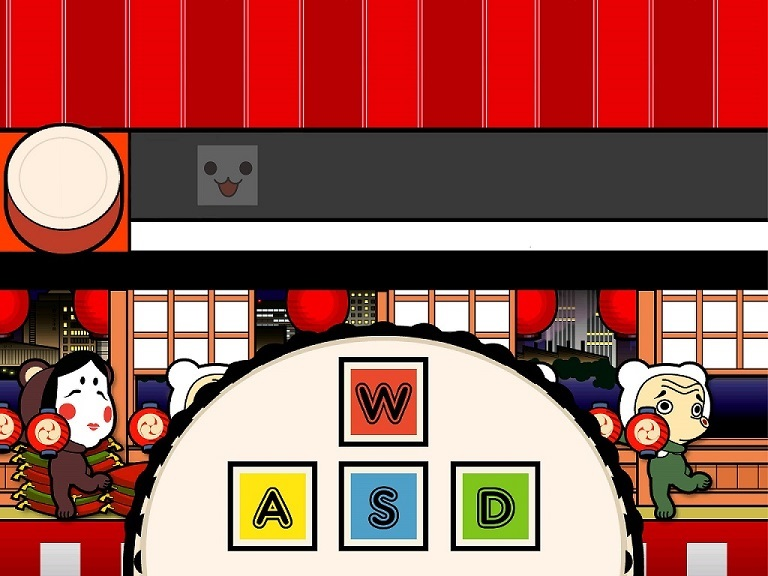
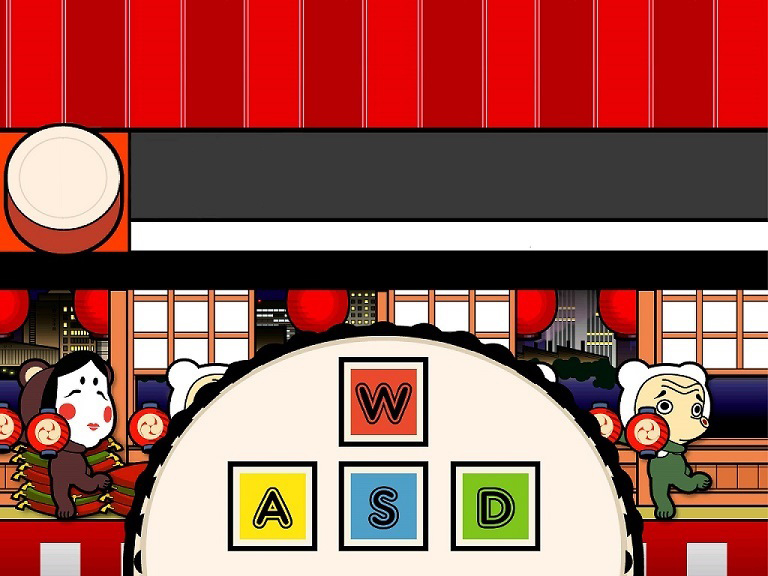
0515 version for not final score and restart page

Changed region(s): [[0.25, 0.25, 0.3438, 0.375], [0.3125, 0.8125, 0.375, 0.9062]]

diff --git a/mainwindow.cpp b/mainwindow.cpp
@@ -2,9 +2,6 @@
 #include "ui_mainwindow.h"
 #include "taikopage.h"
 #include <QTimer>
-#include <QKeyEvent>
-#include <iostream>
-#include <QDebug>
 //#include <QSound>
 
 
@@ -43,7 +40,7 @@ MainWindow::MainWindow(QWidget *parent) :
     W = new QKeyEvent();
     if(W->key()== Qt::Key_W)
         std::cout<<"OK!!!"<<std::endl;*/
-    keypressevent(keyevent);
+
 
     //set music
     //bgm = new QSound(":/new/img/Music.wav");
@@ -81,7 +78,12 @@ void MainWindow::timer_timeout()
     clocktext->setPlainText(clocknumbertext);
     clocknumber--;
     if(clocknumber==-2)
-        this->close();
+    {
+        QImage scorepage;
+        scorepage.load(":/new/img/score.jpg");
+        scorepage = bg.scaled(768,576);
+        this->setBackgroundBrush(scorepage);
+    }
     update();
 }
 
@@ -90,26 +92,10 @@ MainWindow::~MainWindow()
     delete ui;
 }
 
-void MainWindow::keypressevent(QKeyEvent *keyevent)
+
+
+void MainWindow::check_if_hit()
 {
-    switch(keyevent->key())
-    {
-    case Qt::Key_W:
-        std::cout<<"OK!!!"<<std::endl;
-        qDebug() << "you had key W!!!!";
-        break;
-    case Qt::Key_A:
 
-        break;
-    case Qt::Key_D:
-
-        break;
-    case Qt::Key_S:
-
-        break;
-
-    }
 }
-
-
 

diff --git a/taikopage.h b/taikopage.h
@@ -10,6 +10,9 @@
 #include <cstdlib>
 #include <unistd.h>
 #include <time.h>
+#include <QDebug>
+#include <QKeyEvent>
+#include <QList>
 #include "key.h"
 
 
@@ -20,10 +23,14 @@ public:
     taikopage(QWidget *parent);
     QTimer *forshowtime;  //foe ket to show
     QTimer *timer; //for key move
+    void setHitpoint();
+    void keyPressEvent(QKeyEvent *event);
+    int score = 0;
+    int check_if_hit();
 
 signals:
     void send();
-    void sendKey();
+
 public slots:
     void Start();
     void SetKeyMove();
@@ -31,10 +38,14 @@ public slots:
 private:
     QPushButton *W;
     QWidget *mainpointer;
-    Key *item[15];
-    Key *item2;
+    Key *item[50];
+    Key *hitpoint;
+    Key *ifhit;
+    Key *test;
+
     int keytime; //when the key should show
-    int showtime[15];
+    int showtime[50];
+    int keypattern[50]; //record the WASD
 
 private slots:
     void key_timeout();

diff --git a/key.cpp b/key.cpp
@@ -5,21 +5,30 @@
 
 Key::Key(int randomcase)
 {
-    X_pos=840;
+    X_pos=780;
     QPixmap key;
     switch(randomcase){
         case 1:
             key.load(":/new/img/w-01.jpg");
+            type = 1;
             break;
         case 2:
             key.load(":/new/img/A-01.jpg");
+            type = 2;
             break;
         case 3:
             key.load(":/new/img/D-01.jpg");
+            type = 3;
             break;
         case 0:
             key.load(":/new/img/S-01.jpg");
+            type = 0;
             break;
+        case 4:
+            key.load(":/new/img/hitpoint.jpg");
+            break;
+        default:
+        break;
     }
     key = key.scaled(key.width() , key.height(),Qt::KeepAspectRatio);
     this->setPixmap(key);

diff --git a/mainwindow.h b/mainwindow.h
@@ -23,6 +23,10 @@ public:
     ~MainWindow();
     QTimer *countdowntimer;
 
+
+public slots:
+    void check_if_hit();
+
 private:
     Ui::MainWindow *ui;
     taikopage *taiko;
@@ -31,7 +35,6 @@ private:
     QGraphicsTextItem *clocktext;
     QFont *clockfont;
     int clocknumber;
-    void keypressevent(QKeyEvent * keyevent);
     QKeyEvent *W;
     QKeyEvent *keyevent;
     //QSound *bgm;

diff --git a/main.cpp b/main.cpp
@@ -1,5 +1,6 @@
 #include "mainwindow.h"
 #include <QApplication>
+#include <QDesktopWidget>
 #include <cstdlib>
 #include <ctime>
 
@@ -8,6 +9,8 @@ int main(int argc, char *argv[])
     std::srand(std::time(NULL));
     QApplication a(argc, argv);
     MainWindow w;
+    //w.setWindowTitle("Takio by YifangYu");
+    //w.setWindowIcon(QIcon(":/new/img/red.jpg"));
     w.show();
 
 

diff --git a/score.cpp b/score.cpp
@@ -1,9 +1,9 @@
 #include "score.h"
 
-score::score(QWidget *parent) : mainpointer(parent)
+score::score()
 {
-    QImage scorepage;
+   /* QImage scorepage;
     scorepage.load(":/new/img/score.jpg");
     scorepage = scorepage.scaled(768,576);
-    this->setBackgroundBrush(scorepage);
+    this->setBackgroundBrush(scorepage);*/
 }

diff --git a/score.h b/score.h
@@ -9,7 +9,7 @@ class score : public QGraphicsScene
 {
     Q_OBJECT
 public:
-    score(QWidget *parent);
+    score();
     QWidget *mainpointer;
 
 };

diff --git a/key.h b/key.h
@@ -8,6 +8,7 @@ public:
     Key(int randomcase);
     int X_pos;
     int randomcase;
+    int type;
 
 private slots:
 
